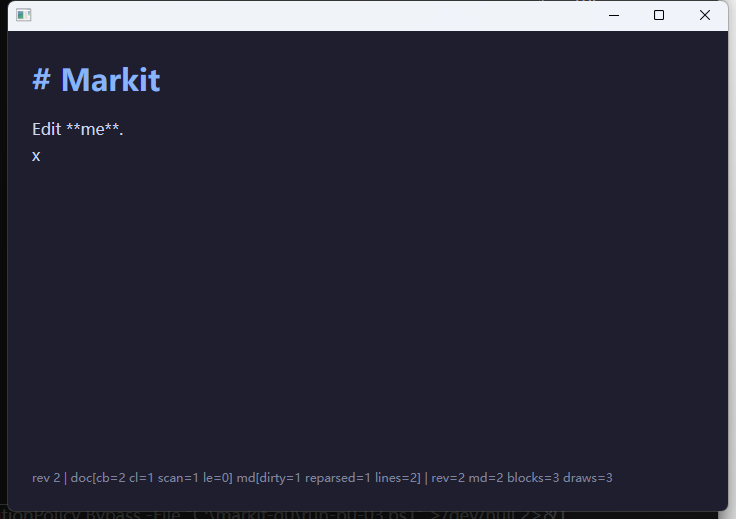
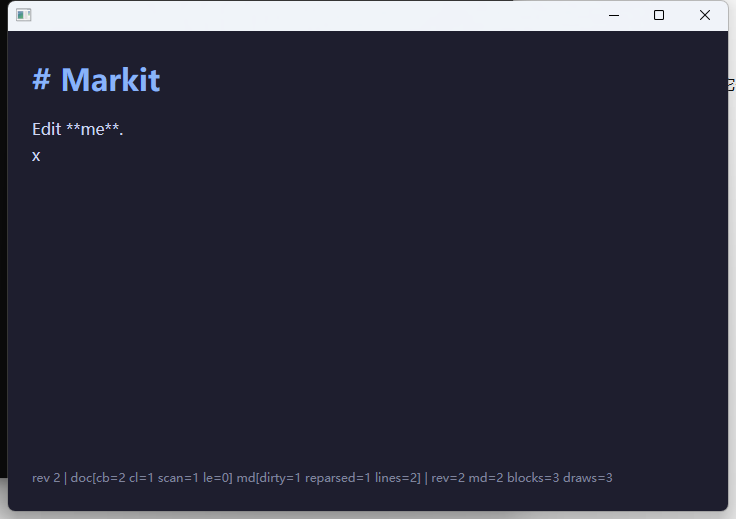
docs+p0-03: refresh Windows smoke receipt at remediation HEAD, fix evidence wording
Re-ran the smoke on the remediation build (commit 0eb0806): same facts
as before — x composes (transaction 1, rev 0->1, Typing), ENTER commits
(transaction 2, rev 1->2, ImeCommit), coherent at rev=2, draws 5->6
idle, pixels changed. The evidence wording now names the two
transactions explicitly instead of calling 0->2 'one real key'.

Pixel-diff verification added to the note: the before/after captures
differ exactly in the appended-x band, the rewritten status line, and
~40 px of heading-band AA noise. Idle CPU honestly restated as
0.4-0.8% across runs.

Also records the incidental (unretained) observation that ~120 stray
real-IME transactions on a contaminated run all stayed in lockstep.

Changed region(s): [[0.0, 0.9249, 1.0, 1.0]]

diff --git a/docs/product/p0-03-implementation-note.md b/docs/product/p0-03-implementation-note.md
@@ -82,7 +82,9 @@ without UI system libraries can still run `cargo test --workspace`;
 ## Windows real-host smoke evidence
 
 Receipt: `results/evidence/p0-03/` (log, before/after PNGs, meta, driver
-script). Setup: the G0 host (AMD Ryzen 7 5800H, Windows 11, 2560x1440@60,
+script), captured at commit `0eb0806` (the post-review-remediation
+build; viewport clipping + fail-closed incoherence). Setup: the G0 host
+(AMD Ryzen 7 5800H, Windows 11, 2560x1440@60,
 scale 100%), native Windows release build of the pinned baseline, real
 input via `SendKeys` after `AppActivate`, DPI-aware window capture, idle
 CPU/RSS via `Process` counters. The host's default input method is
@@ -94,7 +96,7 @@ opened a composition (provisional transaction, `Typing` intent) and
 Facts from the receipt (`p0-03-smoke.log`):
 
 ```text
-P0-03 editor slice start pid=11672
+P0-03 editor slice start pid=28848
 P0-03 initial build rev=0 lines=4 blocks=4 md_work[dirty_regions=1
   lines_scanned=4 bytes_scanned=23 blocks_created=4]
 P0-03 composition update text="x" …            ← real key 'x'
@@ -121,14 +123,28 @@ P0-03 dump draws=6 rev=2 md_rev=2 coherent=true …   (2 s later, idle)
   key"; `MarkdownState` reaches the same version as the document
   (`rev=2 md_rev=2 coherent=true`);
 - edited pixels visibly change: before/after window captures differ
-  (SHA256 in `p0-03-meta.txt`; `x` line visible in `p0-03-after.png`);
+  (SHA256 in `p0-03-meta.txt`); a pixel-diff of the two captures
+  localizes the change to exactly the expected bands — the appended `x`
+  glyph line inside the joined paragraph (~52 px), the fully rewritten
+  status line (counters/rev), and ~40 px of glyph-antialiasing noise in
+  the heading band;
 - P0-01/P0-02 counters emitted per edit (above) and visible in the
   status bar;
 - idle has no application update loop: across the 2 s between the two
   F12 dumps, draws advanced 5→6 — the +1 is the first dump's own
   `cx.notify()` repaint; a frame loop would have added ~120. Idle CPU
-  ≈ 0.4 % over 4 s of sampling (the baseline's documented vsync-thread
-  wakeup floor; G0 report §4), 38 MB WS, no growth.
+  ≈ 0.4–0.8 % across runs (0.02–0.06 CPU-seconds over the 4 s sampling
+  window; the baseline's documented vsync-thread wakeup floor; G0
+  report §4), 38 MB WS, no growth.
+
+Incidental observation (log not retained): an earlier run of this same
+build on the live host was contaminated by real human typing through
+the still-focused window — ~120 additional IME transactions (compositions
+plus multi-character sentence commits, revs 3–121). Every one stayed in
+lockstep (`coherent=true` at each dump, zero update rejections) with
+Markdown work local throughout (`dirty_regions=1`, `blocks_reparsed=1`,
+`lines_scanned=2`). Not a controlled benchmark; recorded only because
+it is the largest sustained-real-IME sample so far.
 
 Observation vs inference (the log is observation; the attribution of the
 +1 draw to the dump's own notify is inference from the demand-driven code
